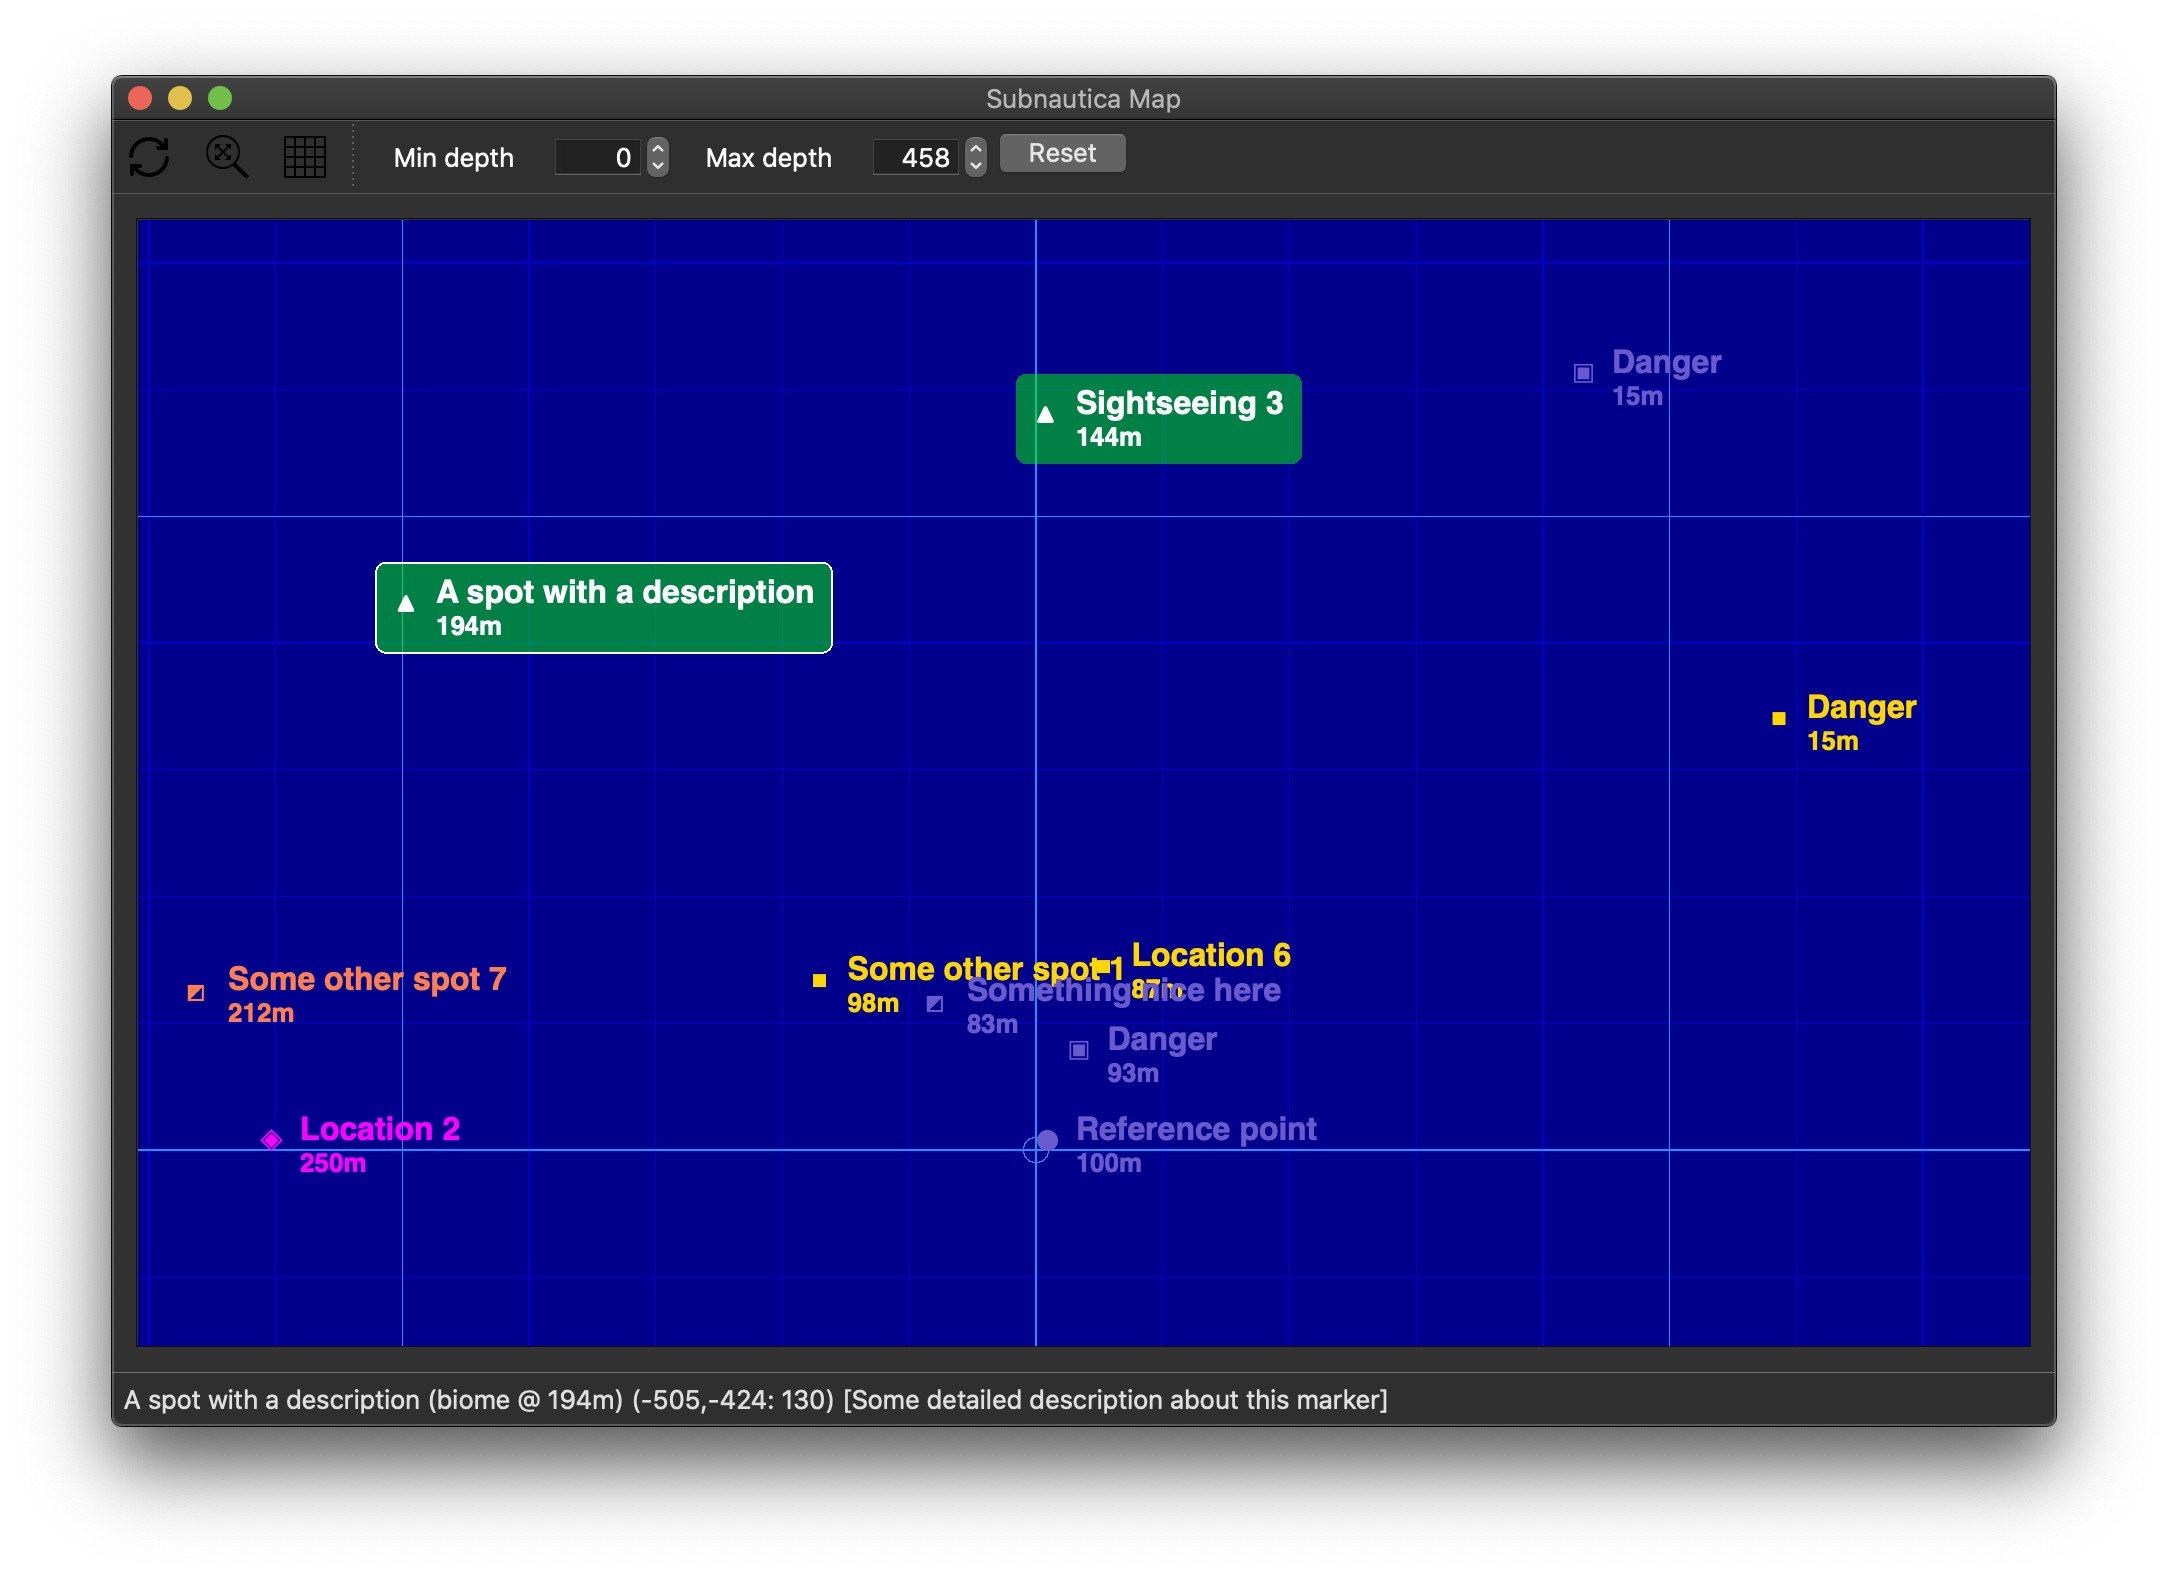
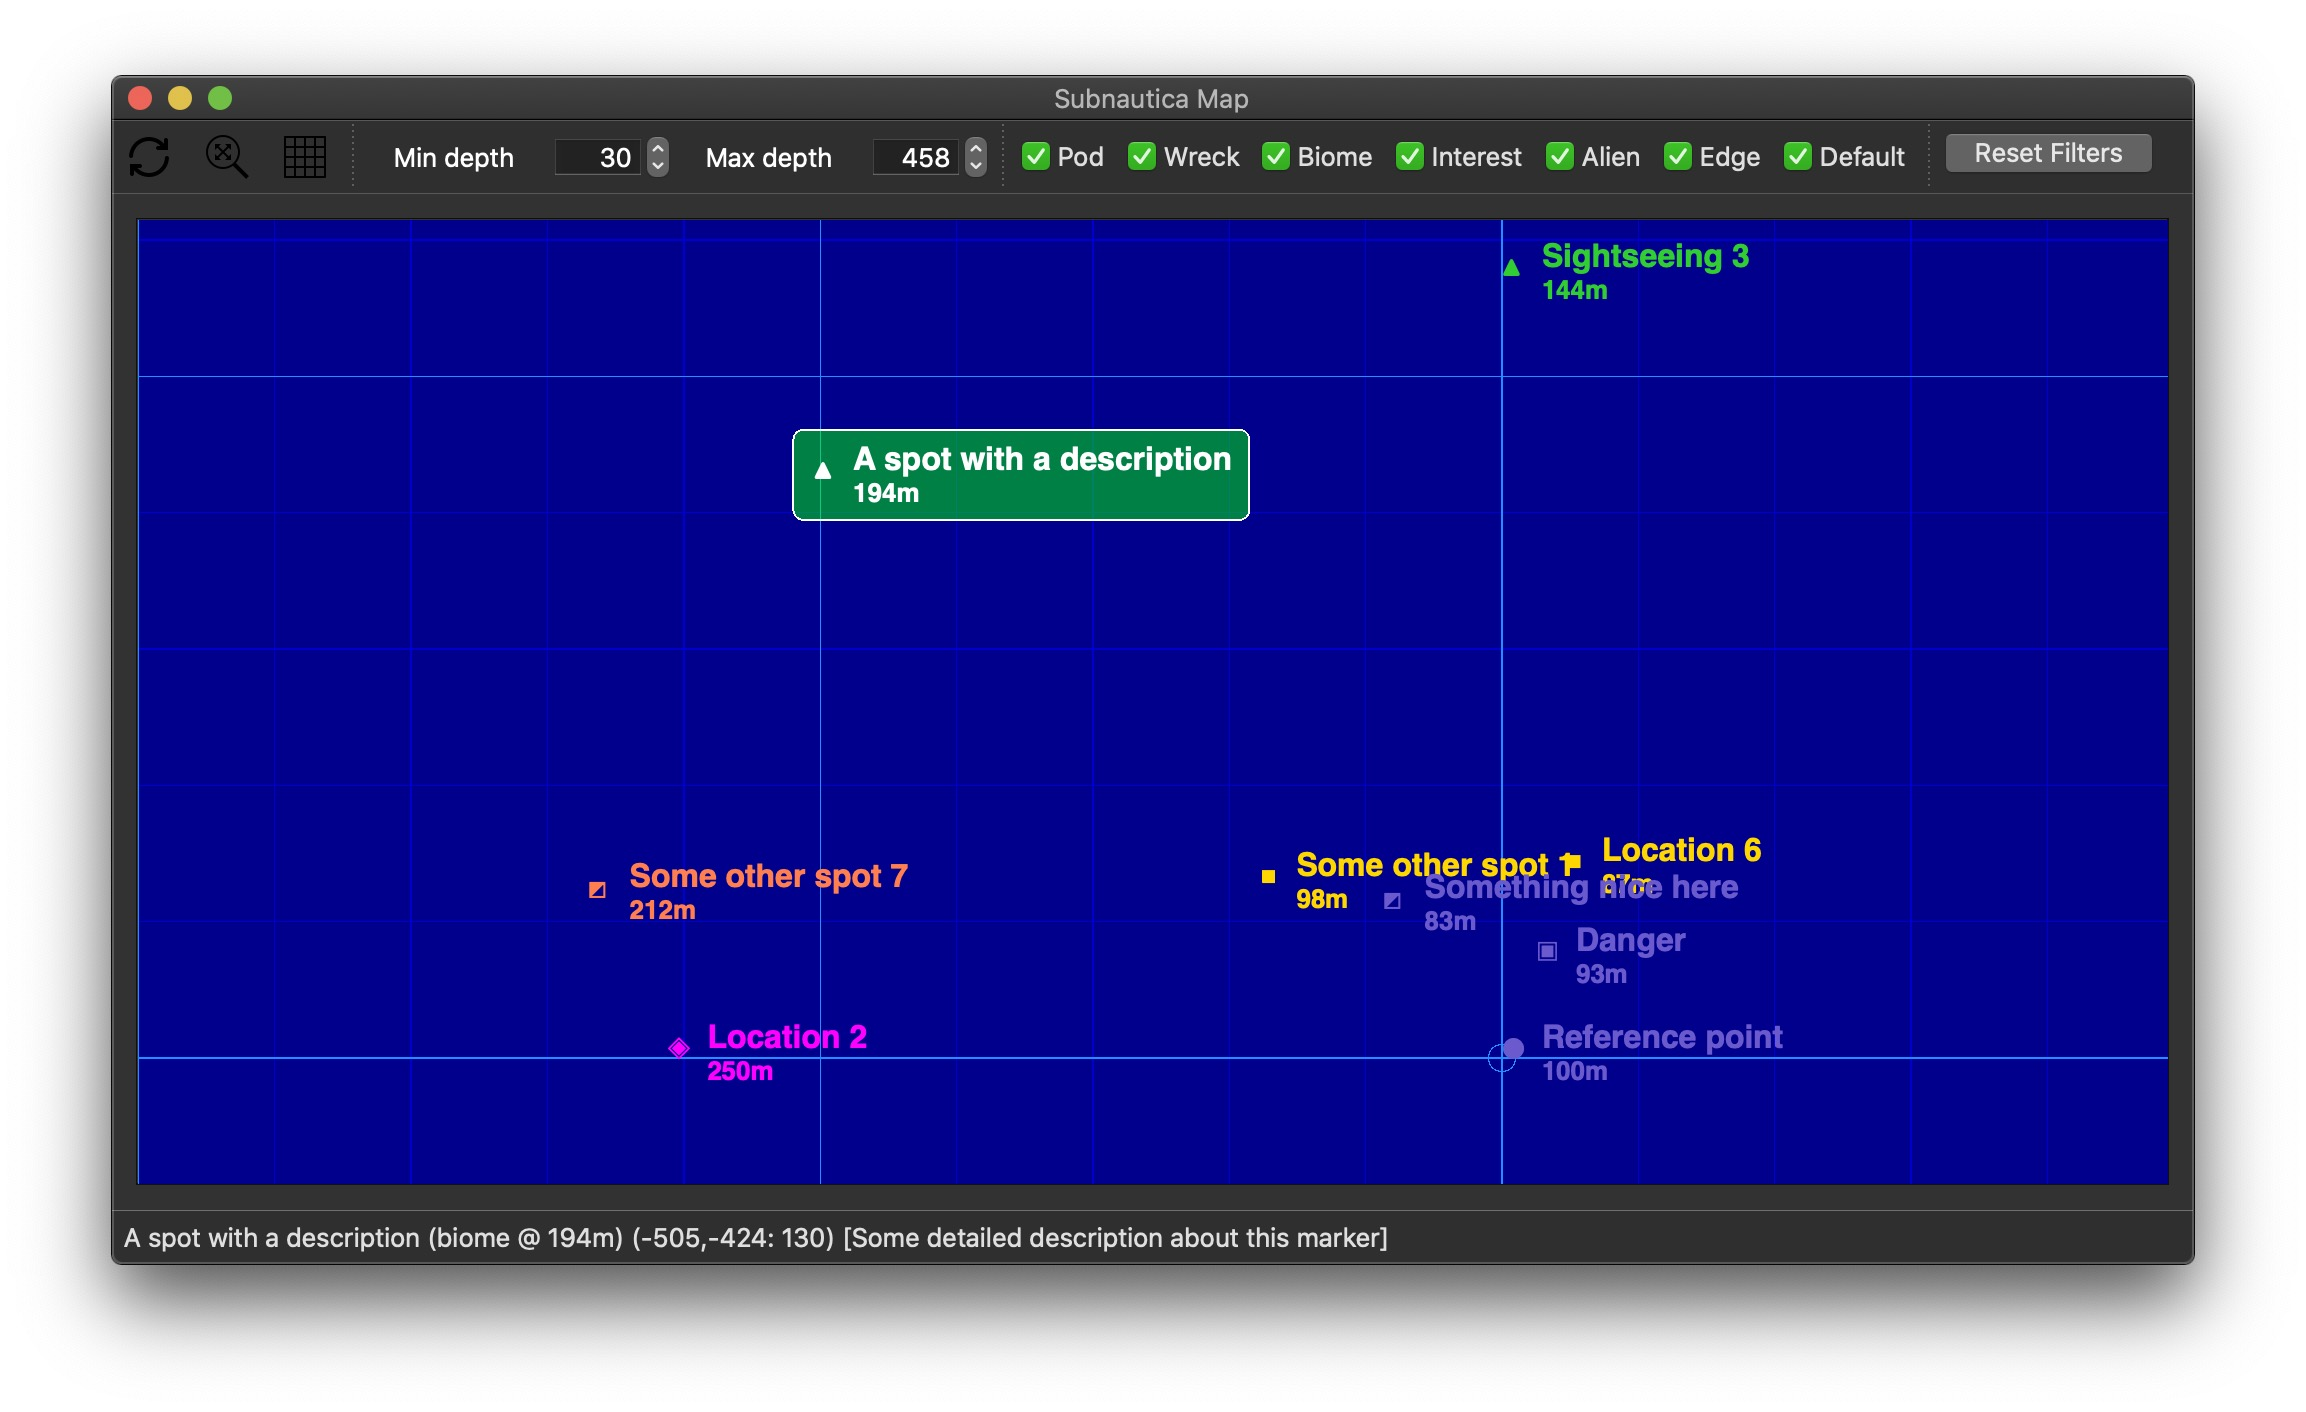
Add filter by category

diff --git a/beacon2map/mainwindow.py b/beacon2map/mainwindow.py
@@ -1,7 +1,6 @@
 import os
 import math
 import logging
-
 from PySide6.QtCore import (
     QPointF,
     QRect,
@@ -11,6 +10,7 @@ from PySide6.QtCore import (
     Signal
     )
 from PySide6.QtWidgets import (
+    QCheckBox,
     QGraphicsScene,
     QGraphicsView,
     QHBoxLayout,
@@ -23,7 +23,8 @@ from PySide6.QtWidgets import (
 from PySide6.QtGui import (
     QAction,
     QColor,
-    QPixmap
+    QGuiApplication,
+    QPixmap,
     )
 
 from beacon2map.gridpoint import GridPoint
@@ -46,19 +47,30 @@ class MainWindow(QMainWindow):
         self.locationmap = app.locationmap
 
         if self.locationmap is not None:
-            self.setWindowTitle('Subnautica Map')
-            self.statusBar().setEnabled(True)
+            self.initialize()
 
-            # We set the central widget but don't initialize it yet.
-            # This allows the status bar to update properly,
-            # after the window has been constructed.
-            self.setCentralWidget(MainWidget())
+    def initialize(self):
+        self.setWindowTitle('Subnautica Map')
+        self.statusBar().setEnabled(True)
+        self.resize(config.window_width, config.window_height)
+        self.center_window()
 
-            self._create_actions()
-            self._create_menus()
-            self._create_toolbar()
+        # We set the central widget but don't initialize it yet.
+        # This allows the status bar to update properly,
+        # after the window has been constructed.
+        self.setCentralWidget(MainWidget())
 
-            self.populate_scene()
+        self._create_actions()
+        self._create_menus()
+        self._create_toolbar()
+
+        self.populate_scene()
+
+    def center_window(self):
+        qt_rect = self.frameGeometry()
+        center = QGuiApplication.primaryScreen().availableGeometry().center()
+        qt_rect.moveCenter(center)
+        self.move(qt_rect.topLeft())
 
     def populate_scene(self):
         '''Initialize the central widget with the app location data.
@@ -101,6 +113,7 @@ class MainWindow(QMainWindow):
         menu_view.addAction(self.act_toggle_grid)
 
     def _create_toolbar(self):
+
         # Command buttons
 
         toolbar = self.addToolBar('Main')
@@ -132,10 +145,26 @@ class MainWindow(QMainWindow):
         self.spin_min.valueChanged.connect(self.spin_value_changed)
         self.spin_max.valueChanged.connect(self.spin_value_changed)
 
-        self.btn_reset_spin = QPushButton('Reset')
-        toolbar.addWidget(self.btn_reset_spin)
+        toolbar.addSeparator()
 
-        self.btn_reset_spin.clicked.connect(self.depth_spin_reset)
+        # Category filter checkboxes
+
+        self.category_checkbox = {}
+        for cat in config.categories:
+            cbox = QCheckBox(cat.capitalize())
+            toolbar.addWidget(cbox)
+            self.category_checkbox[cat] = cbox
+            self.category_checkbox[cat].stateChanged.connect(
+                lambda state, cb=cbox: self.category_checkbox_clicked(cb))
+
+        toolbar.addSeparator()
+
+        # Reset Filters button
+
+        self.btn_reset_filters = QPushButton('Reset Filters')
+        toolbar.addWidget(self.btn_reset_filters)
+
+        self.btn_reset_filters.clicked.connect(self.reset_filters)
 
     def selection_changed(self, item):
         '''Slot called whenever scene.selectionChanged Signal is emitted.'''
@@ -161,9 +190,9 @@ class MainWindow(QMainWindow):
         self.statusBar().showMessage(status)
 
         # Reset the depth spin boxes to min-max values
-        self.depth_spin_reset()
+        self.reset_filters()
 
-    def depth_spin_reset(self):
+    def reset_filters(self):
         min_loc_depth, max_loc_depth = self.locationmap.depth_extents
         self.spin_min.setMinimum(min_loc_depth)
         self.spin_min.setMaximum(max_loc_depth)
@@ -171,14 +200,37 @@ class MainWindow(QMainWindow):
         self.spin_max.setMaximum(max_loc_depth)
         self.spin_min.setValue(min_loc_depth)
         self.spin_max.setValue(max_loc_depth)
+        for checkbox in self.category_checkbox.values():
+            checkbox.setChecked(True)
+        self.filter()
 
     def spin_value_changed(self):
         # Don't let the min and max value invert positions
         self.spin_min.setMaximum(self.spin_max.value())
         self.spin_max.setMinimum(self.spin_min.value())
-        self.centralWidget().scene.focus_on_depth_range(
-            self.spin_min.value(), self.spin_max.value())
+        self.filter()
 
+    def category_checkbox_clicked(self, current_cb):
+        # Use Command Key for exclusive checkbox behavior
+        if self.is_command_key_held():
+            for cb in self.category_checkbox.values():
+                if cb is not current_cb:
+                    cb.blockSignals(True)
+                    cb.setChecked(not current_cb.isChecked())
+                    cb.blockSignals(False)
+        self.filter()
+
+    def filter(self):
+        categories = []
+        for k, v in self.category_checkbox.items():
+            if v.isChecked():
+                categories.append(k)
+        filt = (self.spin_min.value(), self.spin_max.value(), categories)
+        self.centralWidget().scene.filter(filt)
+
+    @staticmethod
+    def is_command_key_held():
+        return QGuiApplication.keyboardModifiers() == Qt.ControlModifier
 
 class MainWidget(QWidget):
     '''Main map widget.'''
@@ -263,7 +315,7 @@ class MapScene(QGraphicsScene):
 
         # Draw markers and emit done Signal
         try:
-            self.draw_markers()
+            self.draw_gridpoints()
         except ValueError:
             print('lkjsdf')
         else:
@@ -275,7 +327,7 @@ class MapScene(QGraphicsScene):
             self.removeItem(gp)
         self.gridpoints.clear()
 
-    def draw_markers(self):
+    def draw_gridpoints(self):
         # Draw the markers and add them to a list so we can keep track of them
         # (QGraphicsScene has other items besides markers, such as grid lines)
         #
@@ -289,8 +341,6 @@ class MapScene(QGraphicsScene):
             # GridPoint color based on Done status and depth
             if loc.done:
                 gp.color = config.marker_done_color
-            elif loc.depth >= 600:
-                gp.color = config.marker_deep_color
             else:
                 gp.color = QColor(config.categories[loc.category]['color'])
             gp.hover_bg_color = config.hover_bg_color
@@ -344,12 +394,17 @@ class MapScene(QGraphicsScene):
         self.grid.setVisible(self._grid_visible)
         self.update()
 
-    def focus_on_depth_range(self, min_depth, max_depth):
+    def filter(self, filt):
+        '''Show or hide gridpoints based on filter conditions
+        (min_depth, max_depth, categories)'''
+        min_depth, max_depth, cats = filt
         for point in self.gridpoints:
-            if min_depth < point.source.depth < max_depth:
+            in_depth_range = min_depth < point.source.depth < max_depth
+            if in_depth_range and point.source.category in cats:
                 point.setVisible(True)
             else:
                 point.setVisible(False)
+
 
 class MapView(QGraphicsView):
     def __init__(self, scene: MapScene):

diff --git a/beacon2map.py b/beacon2map.py
@@ -64,7 +64,6 @@ def main():
     app = Beacon2Map()
     app.setWindowIcon(QIcon(QPixmap(config.icon['app'])))
     window = MainWindow(app)
-    window.resize(config.window_width, config.window_height)
     if app.has_valid_map:
         window.show()
         sys.exit(app.exec())
